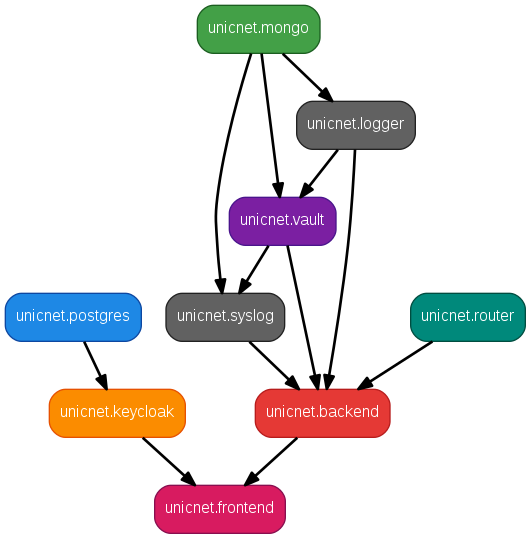
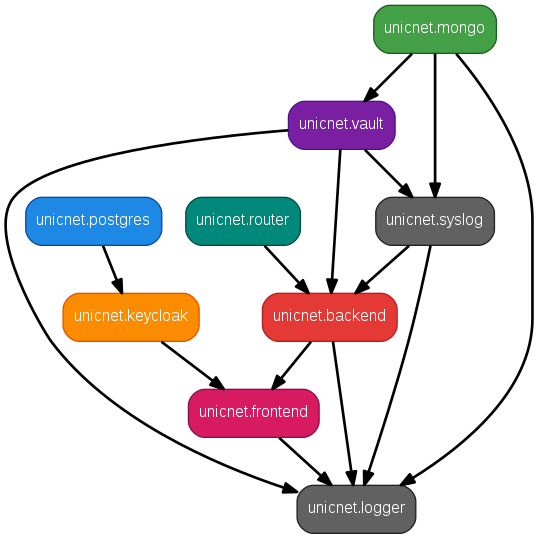
Обновлены зависимости: Logger стартует после Vault, syslog, Backend и frontend
- Logger теперь зависит от vault, syslog, backend, frontend
- Убраны зависимости от Logger у других сервисов
- Обновлена Mermaid диаграмма в инструкции
- Обновлены уровни зависимостей и порядок запуска
- Сгенерированы новые Graphviz диаграммы

diff --git a/install_all_in_one_instructions.md b/install_all_in_one_instructions.md
@@ -90,17 +90,18 @@ graph TD
     FE[unicnet.frontend<br/>Frontend]
     
     PG --> KC
-    MG --> LG
     MG --> SL
     MG --> VT
-    LG --> VT
     VT --> SL
     VT --> BE
     RT --> BE
     SL --> BE
-    LG --> BE
     BE --> FE
     KC --> FE
+    VT --> LG
+    SL --> LG
+    BE --> LG
+    FE --> LG
     
     style PG fill:#1e88e5,stroke:#0d47a1,stroke-width:3px,color:#ffffff
     style MG fill:#43a047,stroke:#1b5e20,stroke-width:3px,color:#ffffff
@@ -118,23 +119,24 @@ graph TD
 **Уровни зависимостей:**
 
 - **Уровень 0 (Базовые сервисы):** `unicnet.postgres`, `unicnet.mongo`
-- **Уровень 1:** `unicnet.keycloak` → postgres, `unicnet.logger` → mongo
-- **Уровень 2:** `unicnet.vault` → mongo, logger
-- **Уровень 3:** `unicnet.syslog` → mongo, vault; `unicnet.router` → (нет зависимостей)
-- **Уровень 4:** `unicnet.backend` → vault, router, syslog, logger
+- **Уровень 1:** `unicnet.keycloak` → postgres
+- **Уровень 2:** `unicnet.vault` → mongo; `unicnet.router` → (нет зависимостей)
+- **Уровень 3:** `unicnet.syslog` → mongo, vault
+- **Уровень 4:** `unicnet.backend` → vault, router, syslog
 - **Уровень 5:** `unicnet.frontend` → backend, keycloak
+- **Уровень 6:** `unicnet.logger` → mongo, vault, syslog, backend, frontend
 
 **Порядок запуска сервисов:**
 
 1. `unicnet.postgres` (PostgreSQL)
 2. `unicnet.mongo` (MongoDB)
 3. `unicnet.keycloak` (после postgres)
-4. `unicnet.logger` (после mongo)
-5. `unicnet.vault` (после mongo и logger)
-6. `unicnet.syslog` (после mongo и vault)
-7. `unicnet.router` (независимый сервис)
-8. `unicnet.backend` (после vault, router, syslog и logger)
-9. `unicnet.frontend` (после backend и keycloak)
+4. `unicnet.vault` (после mongo)
+5. `unicnet.syslog` (после mongo и vault)
+6. `unicnet.router` (независимый сервис)
+7. `unicnet.backend` (после vault, router и syslog)
+8. `unicnet.frontend` (после backend и keycloak)
+9. `unicnet.logger` (после mongo, vault, syslog, backend и frontend)
 
 > **Примечание**: Docker Compose автоматически учитывает зависимости через `depends_on` и запускает сервисы в правильном порядке.
 
